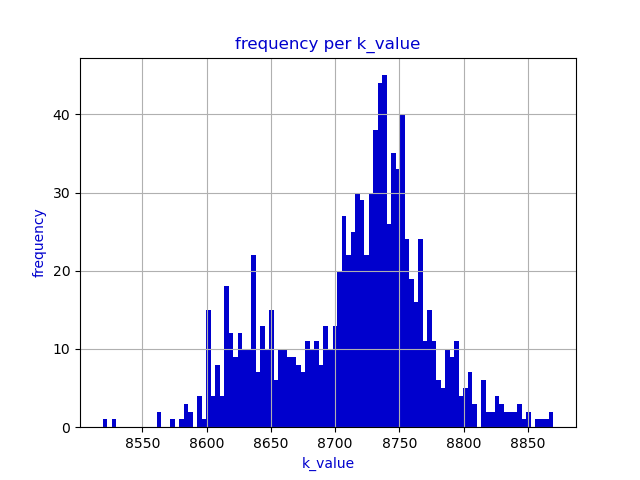
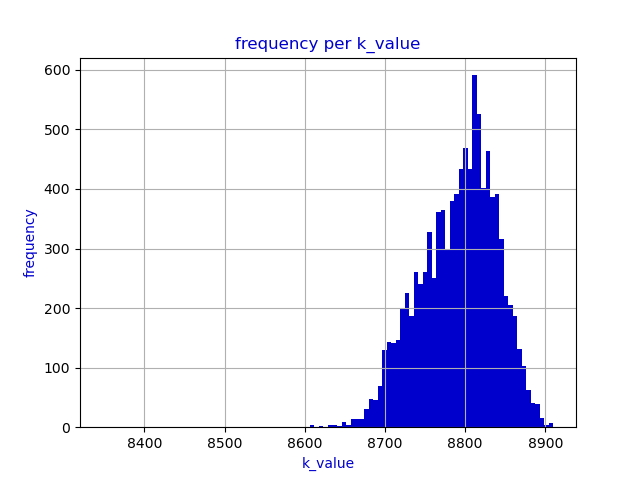
allowing routes to end when all connections are done

diff --git a/code/algorithms/greedy.py b/code/algorithms/greedy.py
@@ -36,7 +36,7 @@ class Greedy():
         """
         route.add_station(start_station, 0)
 
-        while route.time <= self.graph.max_time:
+        while route.time <= self.graph.max_time and self.graph.open:
 
             destinations = route.present_destinations(route.itinerary[-1].name)
             options = list(destinations.keys())
@@ -71,6 +71,8 @@ class Greedy():
             # make sure to add the Station instance and not just name
             route.add_station(route.station_dict[choice], time)
 
+            self.graph.check_open()
+
 
     def distance_greedy(self, start_station, route):
         """
@@ -79,7 +81,7 @@ class Greedy():
         """
         route.add_station(start_station, 0)
 
-        while route.time <= self.graph.max_time:
+        while route.time <= self.graph.max_time and self.graph.open:
             current_station = route.itinerary[-1]
 
             destinations = route.present_destinations(current_station.name)
@@ -120,6 +122,8 @@ class Greedy():
 
             if destination_boolean:
                 route.add_station(route.station_dict[min_destination], time, self.weights)
+
+                self.graph.check_open()
 
             else:
                 break
@@ -268,5 +272,5 @@ class Greedy():
         else:
             self.deadend_start()
 
-        print(f'K = {self.graph.calculate_k()}')
+        #print(f'K = {self.graph.calculate_k()}')
         return(self.graph.calculate_k())

diff --git a/greedy_trial.py b/greedy_trial.py
@@ -13,7 +13,7 @@ def loop_greedy(input1, input2, iterations):
         weights = [1, 100]
 
         # see Dijkstra class for all parameters
-        test_greedy = greedy.Greedy(test_graph, weights, 4)
+        test_greedy = greedy.Greedy(test_graph, weights, 3, random_start_bool=True)
         k = test_greedy.run_greedy()
 
         lst_k_values.append(k)
@@ -29,10 +29,10 @@ def loop_greedy(input1, input2, iterations):
 def main(input1, input2, iterations):
     best_graph, lst_k_values = loop_greedy(input1, input2, iterations)
 
-    vis.bar_k(lst_k_values)
+    #vis.bar_k(lst_k_values)
     vis.histogram_k(lst_k_values)
-    vis.plot_connections(input1, input2, 'data/ne_10m_admin_0_countries/ne_10m_admin_0_countries.shp')
-    vis.plot_routes(input1, input2, 'data/ne_10m_admin_0_countries/ne_10m_admin_0_countries.shp', best_graph.route_dict)
+    #vis.plot_connections(input1, input2, 'data/ne_10m_admin_0_countries/ne_10m_admin_0_countries.shp')
+    #vis.plot_routes(input1, input2, 'data/ne_10m_admin_0_countries/ne_10m_admin_0_countries.shp', best_graph.route_dict)
     best_graph.show_routes()
 
     print(max(lst_k_values))
@@ -50,4 +50,4 @@ if __name__ == "__main__":
         # Read arguments from command line
         args = parser.parse_args()
 
-        main(args.input1, args.input2, 1000)
+        main(args.input1, args.input2, 10000)
